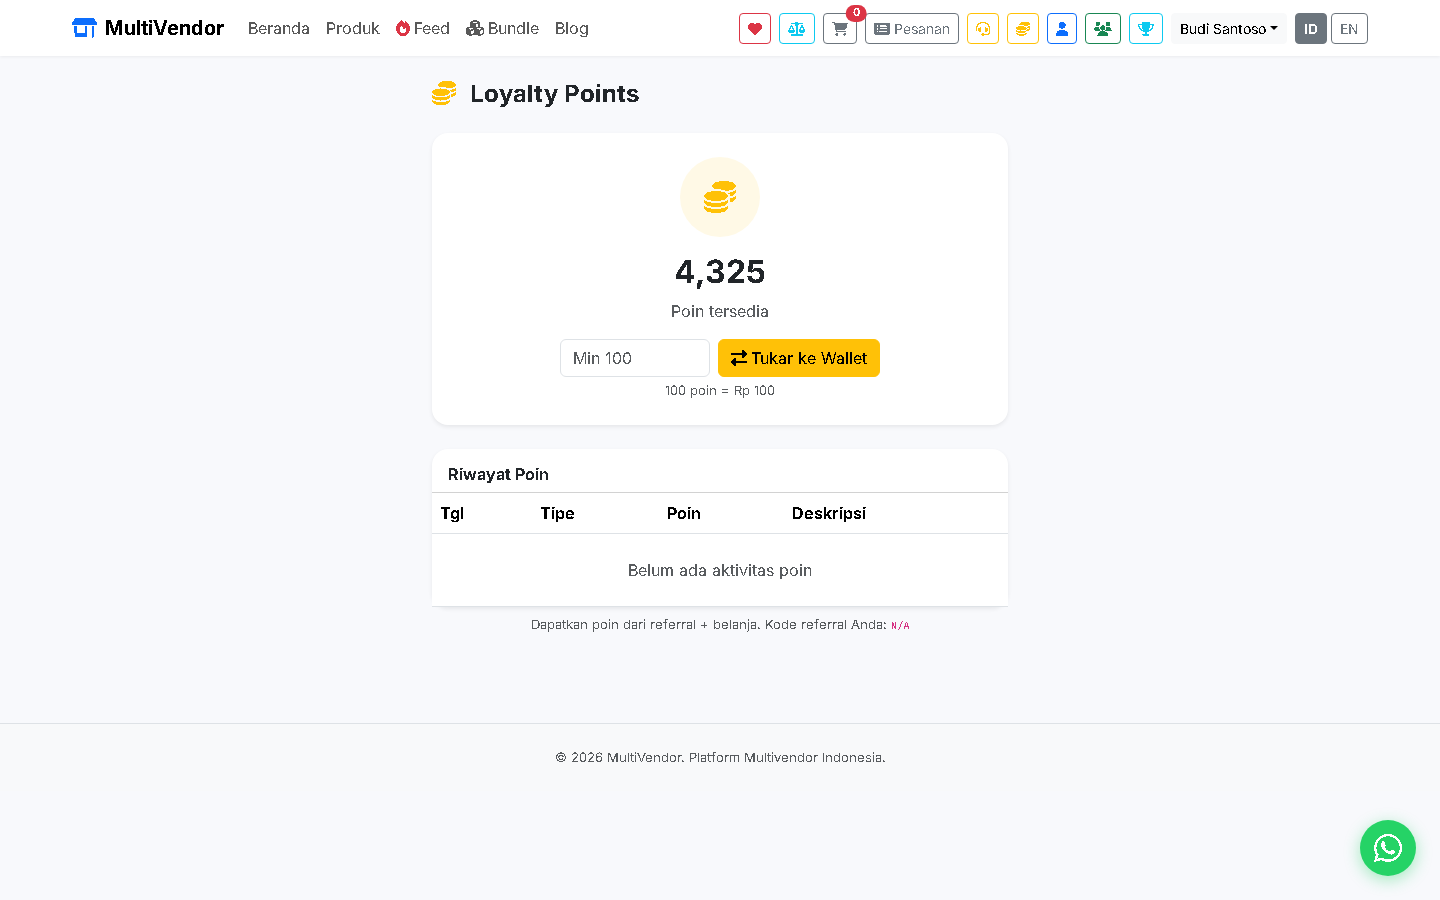
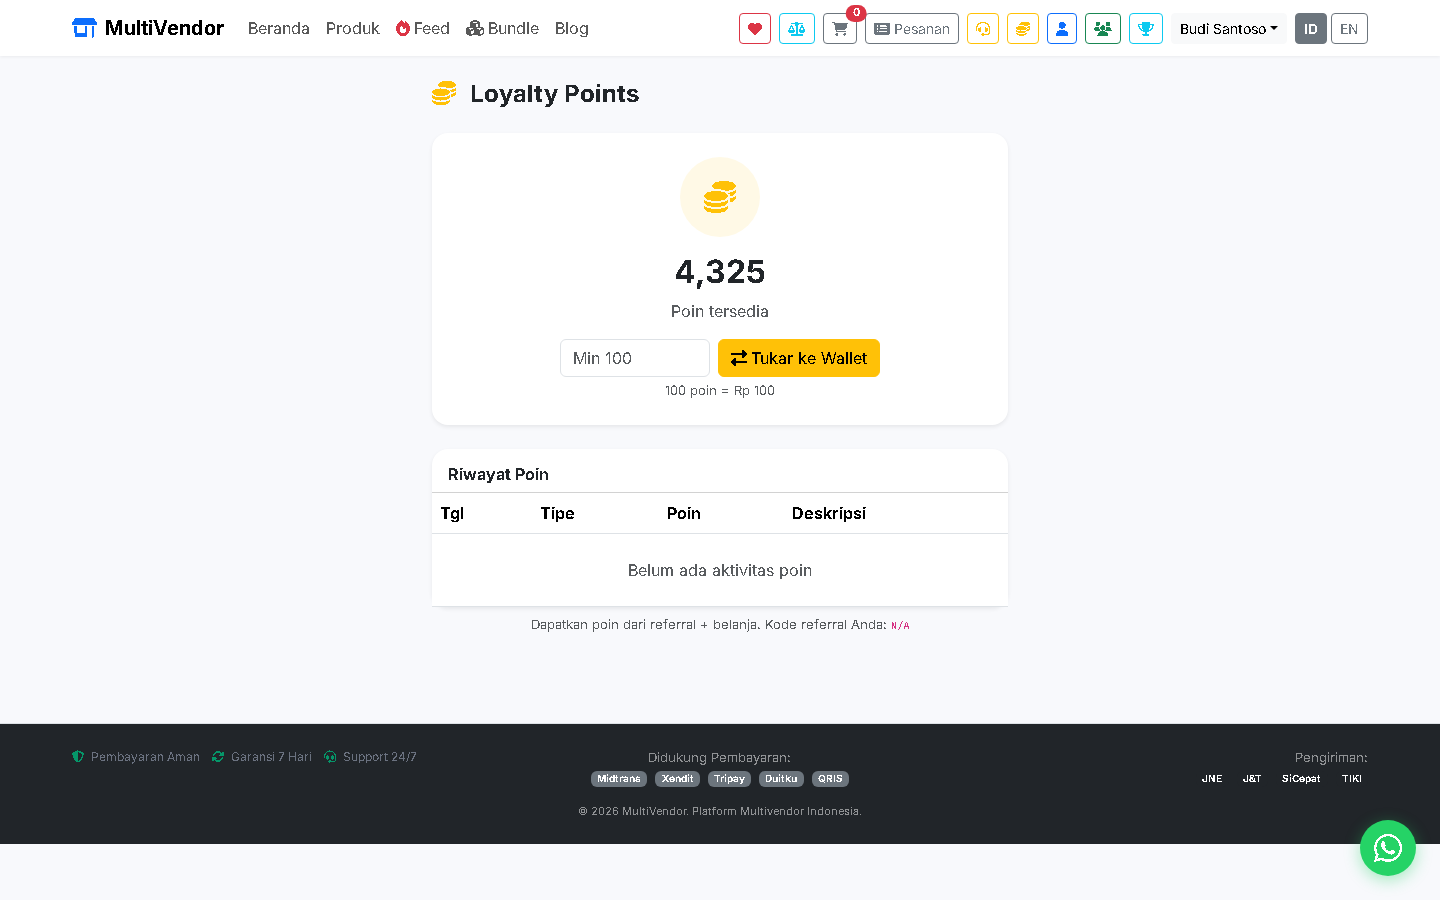
Design audit fixes: hover lift, gallery zoom, sticky mobile CTA, trust badges, variant click, empty states

Changed region(s): [[0.0, 0.7778, 1.0, 0.9644]]

diff --git a/resources/views/layouts/storefront.blade.php b/resources/views/layouts/storefront.blade.php
@@ -12,12 +12,23 @@
         :root { --brand-primary: #4F46E5; }
         body { font-family: 'Inter', system-ui, sans-serif; background: #f8f9fc; }
         .navbar { background: white; box-shadow: 0 1px 3px rgba(0,0,0,.06); }
-        .product-card { border: none; border-radius: 16px; box-shadow: 0 2px 8px rgba(0,0,0,.04); transition: all .3s; overflow: hidden; }
-        .product-card:hover { transform: translateY(-4px); box-shadow: 0 12px 32px rgba(0,0,0,.08); }
+        .product-card { border: none; border-radius: 16px; box-shadow: 0 2px 8px rgba(0,0,0,.04); transition: transform .25s ease, box-shadow .25s ease; overflow: hidden; }
+        .product-card:hover { transform: translateY(-6px); box-shadow: 0 16px 48px rgba(0,0,0,.12); }
         .product-card .card-img-top { height: 200px; object-fit: cover; background: #f1f5f9; }
+        .gallery-img:hover { transform: scale(1.05); transition: transform .2s; }
         .btn-primary { background: var(--brand-primary); border-color: var(--brand-primary); border-radius: 10px; font-weight: 500; }
         .btn-primary:hover { background: #4338CA; }
         .line-clamp-2{display:-webkit-box;-webkit-line-clamp:2;-webkit-box-orient:vertical;overflow:hidden;}
+        .sticky-cta { position: fixed; bottom: 0; left: 0; right: 0; background: #fff; padding: 12px 16px; box-shadow: 0 -4px 20px rgba(0,0,0,.08); z-index: 999; display: flex; gap: 8px; align-items: center; }
+        @media (min-width: 768px) { .sticky-cta { display: none; } }
+        .trust-badges { display: flex; gap: 12px; flex-wrap: wrap; align-items: center; font-size: .75rem; color: #6b7280; }
+        .trust-badges i { color: #059669; margin-right: 4px; }
+        .empty-state { text-align: center; padding: 60px 20px; }
+        .empty-state i { font-size: 4rem; color: #e2e8f0; margin-bottom: 16px; }
+        .empty-state h5 { font-weight: 600; color: #475569; }
+        .empty-state .btn { margin-top: 12px; }
+        .variant-badge { cursor: pointer; transition: all .15s; }
+        .variant-badge:hover, .variant-badge.active { border-color: var(--brand-primary) !important; background: #eef2ff !important; color: var(--brand-primary) !important; }
         .page-link { font-size: .75rem; padding: 4px 8px; line-height: 1.2; }
         .page-link .fas, .page-link .far, .page-link svg { font-size: .65rem !important; width: 10px !important; height: 10px !important; }
         .pagination { --bs-pagination-font-size: .75rem; --bs-pagination-padding-x: .5rem; --bs-pagination-padding-y: .25rem; margin-bottom: 0; }
@@ -85,9 +96,39 @@
     @yield('content')
 </main>
 
-<footer class="bg-light py-4 mt-5 border-top">
-    <div class="container text-center text-muted small">
-        &copy; {{ date('Y') }} {{ config('app.name') }}. Platform Multivendor Indonesia.
+<footer class="bg-dark text-white py-4 mt-5 border-top">
+    <div class="container">
+        <div class="row g-3 mb-3">
+            <div class="col-md-4 text-center text-md-start">
+                <div class="trust-badges justify-content-center justify-content-md-start mb-2">
+                    <span><i class="fas fa-shield-alt"></i> Pembayaran Aman</span>
+                    <span><i class="fas fa-sync-alt"></i> Garansi 7 Hari</span>
+                    <span><i class="fas fa-headset"></i> Support 24/7</span>
+                </div>
+            </div>
+            <div class="col-md-4 text-center">
+                <small class="opacity-50">Didukung Pembayaran:</small>
+                <div class="d-flex gap-2 justify-content-center mt-1 flex-wrap">
+                    <span class="badge bg-secondary">Midtrans</span>
+                    <span class="badge bg-secondary">Xendit</span>
+                    <span class="badge bg-secondary">Tripay</span>
+                    <span class="badge bg-secondary">Duitku</span>
+                    <span class="badge bg-secondary">QRIS</span>
+                </div>
+            </div>
+            <div class="col-md-4 text-center text-md-end">
+                <small class="opacity-50">Pengiriman:</small>
+                <div class="d-flex gap-2 justify-content-center justify-content-md-end mt-1 flex-wrap">
+                    <span class="badge bg-dark">JNE</span>
+                    <span class="badge bg-dark">J&T</span>
+                    <span class="badge bg-dark">SiCepat</span>
+                    <span class="badge bg-dark">TIKI</span>
+                </div>
+            </div>
+        </div>
+        <div class="text-center small opacity-50">
+            &copy; {{ date('Y') }} {{ config('app.name') }}. Platform Multivendor Indonesia.
+        </div>
     </div>
 </footer>
 

diff --git a/resources/views/storefront/products/show.blade.php b/resources/views/storefront/products/show.blade.php
@@ -73,7 +73,7 @@
             <div class="mb-3"><label class="fw-semibold small">Varian:</label>
                 <div class="d-flex flex-wrap gap-2">
                     @foreach($product->variants as $v)
-                    <span class="badge bg-light text-dark border px-3 py-2">{{ $v->variant }} @if($v->price != $product->price)<span class="text-primary">Rp {{ number_format($v->price,0,',','.') }}</span>@endif · Stok: {{ $v->stock }}</span>
+                    <span class="variant-badge badge bg-light text-dark border px-3 py-2" data-price="{{ $v->price }}" data-stock="{{ $v->stock }}" onclick="document.querySelectorAll('.variant-badge').forEach(b=>b.classList.remove('active','bg-primary-subtle','text-primary'));this.classList.add('active','bg-primary-subtle','text-primary');document.getElementById('variantId').value='{{ $v->id }}'">{{ $v->variant }} @if($v->price != $product->price)<span class="text-primary">Rp {{ number_format($v->price,0,',','.') }}</span>@endif · Stok: {{ $v->stock }}</span>
                     @endforeach
                 </div>
             </div>
@@ -131,5 +131,18 @@
     @if($relatedProducts->count() > 0)
     <div class="mt-5"><h5 class="fw-bold mb-3">Produk Terkait</h5><div class="row g-3">@foreach($relatedProducts as $rp)<div class="col-6 col-md-3">@include('storefront.products._card', ['product' => $rp])</div>@endforeach</div></div>
     @endif
+</div>
+
+{{-- Sticky Mobile CTA --}}
+@auth
+<div class="sticky-cta">
+    <div class="flex-grow-1">
+        <small class="text-muted">Harga</small>
+        <span class="fw-bold text-primary">Rp {{ number_format($product->getEffectivePrice(),0,',','.') }}</span>
+    </div>
+    <form action="{{ route('cart.add') }}" method="POST" class="d-flex gap-1">@csrf<input type="hidden" name="product_id" value="{{ $product->id }}"><input type="hidden" name="variant_id" id="variantId" value=""><input type="number" name="quantity" value="1" min="1" class="form-control form-control-sm" style="width:50px"><button class="btn btn-primary btn-sm px-3"><i class="fas fa-shopping-cart me-1"></i>Keranjang</button></form>
+</div>
+@endauth
+
 </div>
 @endsection
